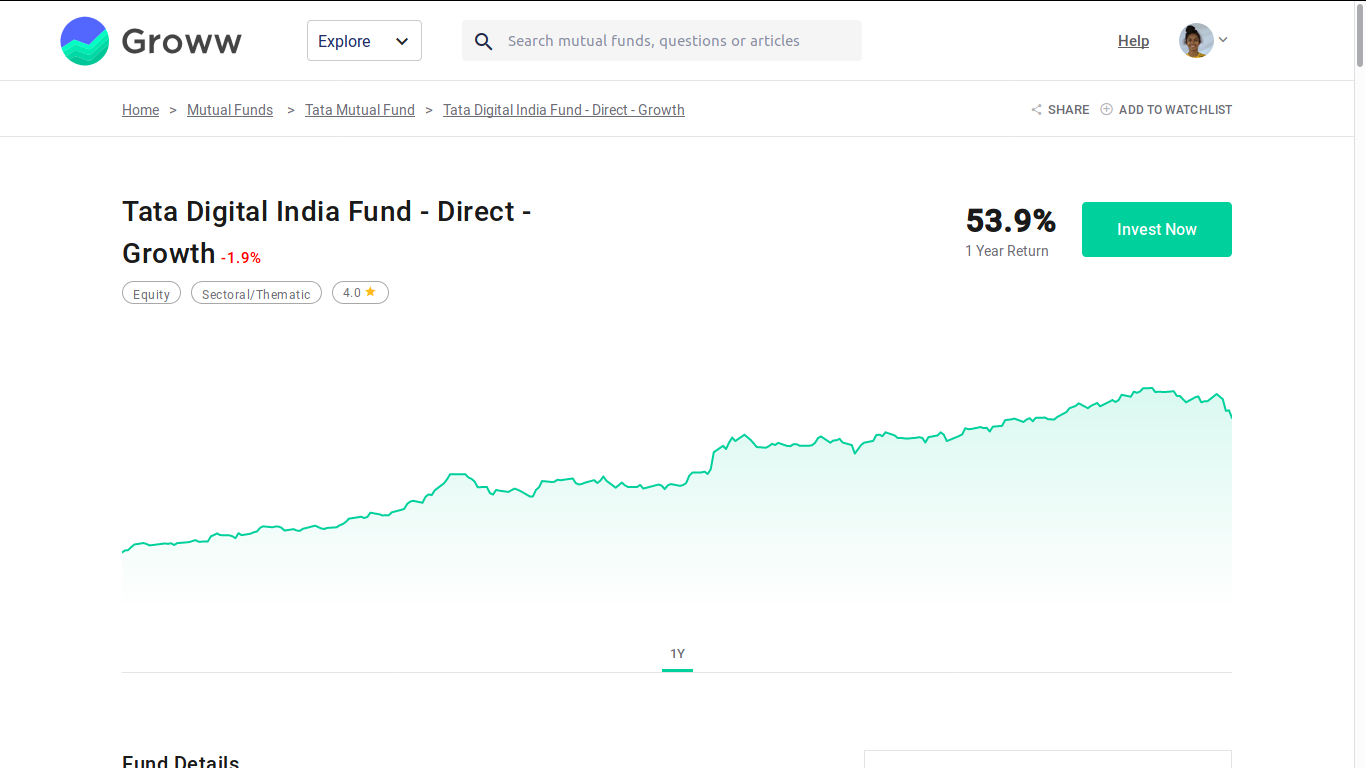
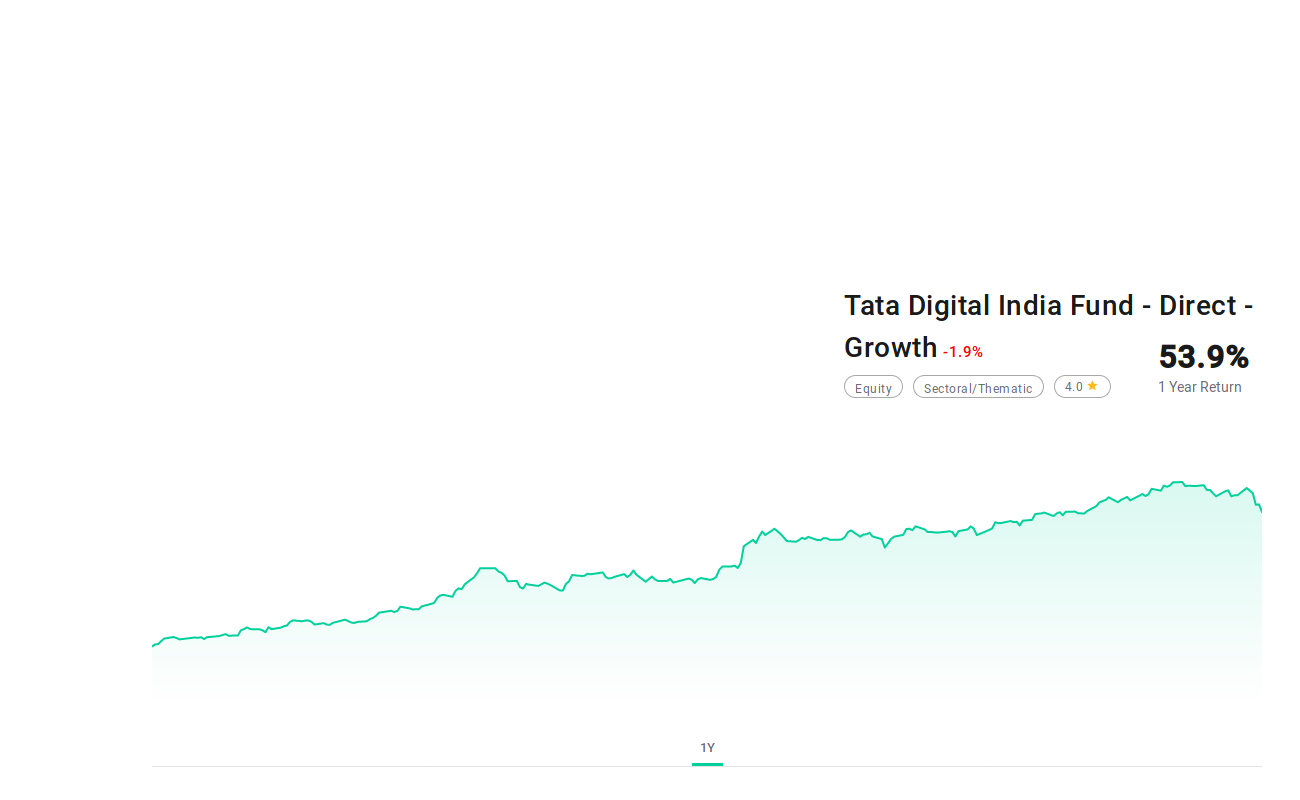
fix hero image

diff --git a/index.html b/index.html
@@ -2,7 +2,7 @@
 <html lang="en">
 
 <head>
-   <meta name="viewport" content="width=device-width, initial-scale=1.0">
+    <meta name="viewport" content="width=device-width, initial-scale=1.0">
     <link rel="stylesheet" href="https://cdnjs.cloudflare.com/ajax/libs/materialize/1.0.0/css/materialize.min.css">
     <script src="https://cdnjs.cloudflare.com/ajax/libs/materialize/1.0.0/js/materialize.min.js"></script>
     <meta charset="UTF-8">
@@ -58,7 +58,7 @@
             <nav class="white">
                 <div class="nav-wrapper">
                     <div class="container">
-                        <a class="brand-logo" href="index.html"><img src="logo-rupeerabbit.svg" width="50" /></a>
+                        <a class="brand-logo" href="index.html"><img src="logo-rupeerabbit.svg" width="50px" /></a>
                         <ul class="right hide-on-med-and-down" id="nav-mobile">
                             <li><a class="waves-effect waves-light btn hoverable" style="background: linear-gradient(135deg,#8f53d7,#1e83ef);">LOGIN</a></li>
                             <li><a class="waves-effect waves-light btn white black-text hoverable" style="border: 1px solid blue ">REGISTER</a></li>
@@ -79,21 +79,28 @@
 
 
 
-    <div style="padding-bottom: 100px">
-        <div class="row">
-            <div class="container">
-                <div class="col s12 m6">
-                    <img src="logo-rupeerabbit.svg" alt="" style="width: 200px">
-                    <h3 class="strong truncate" style="font-weight: 900;font-size: 65px;">RupeeRabbit</h3>
-                    <p>For People who demand better. <br><br> </p>
-                    <a class="waves-effect waves-light btn" style="background: linear-gradient(135deg,#8f53d7,#1e83ef);">REGISTER NOW</a>
-                </div>
-            </div>
-            <div class="col l6" style="padding-top: 30px">
-                <img src="Screenshot%202018-10-08%20at%2011.19.07%20AM.png" alt="" class="right" style="max-width: 80%">
-            </div>
+    <div class="parallax-container" style="min-height:95vh">
+
+        <div class="parallax">
+            <img src="GRAPH.png" alt="" class="right" style="max-width: 80%">
+        </div>
+
+
+
+        <div class="container">
+
+            <img src="logo-rupeerabbit.svg" alt="" style="width: 200px">
+            <h1 class="strong" style="font-weight: 900;">RupeeRabbit</h1>
+            <p>For People who demand better. <br><br> </p>
+            <a class="waves-effect waves-light btn" style="background: linear-gradient(135deg,#8f53d7,#1e83ef);">REGISTER NOW</a>
 
         </div>
+
+
+
+
+
+
     </div>
 
 
